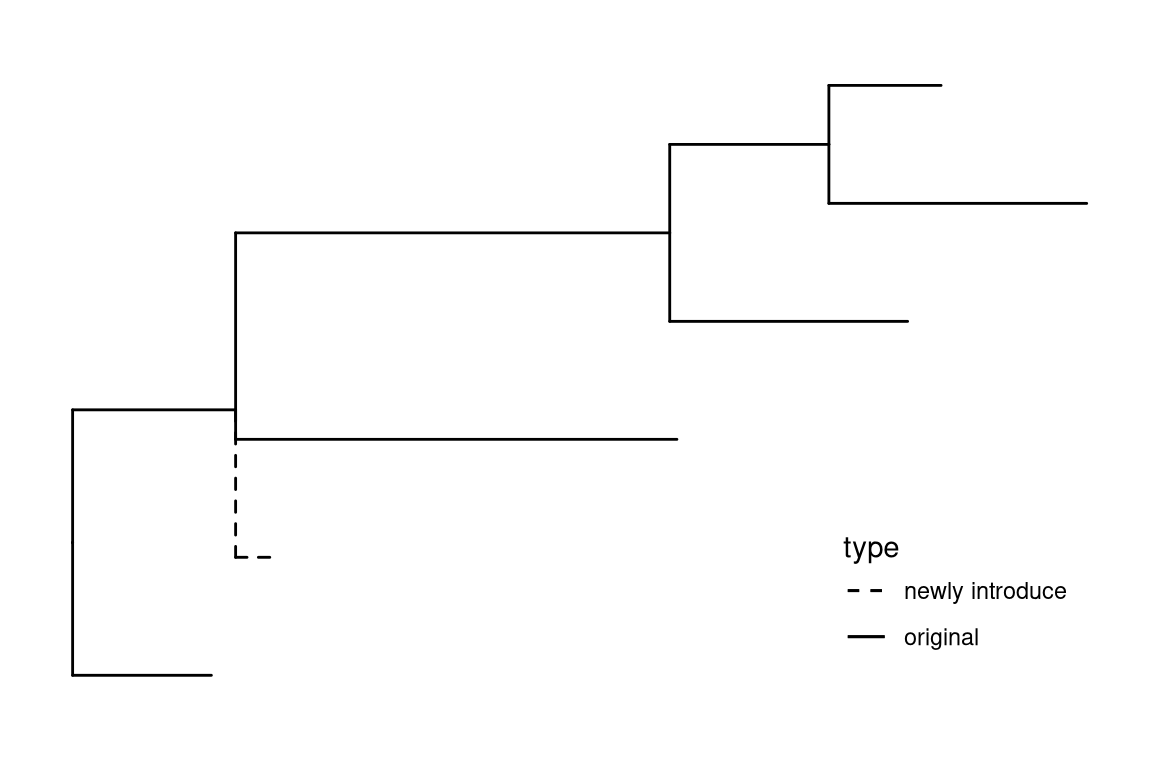
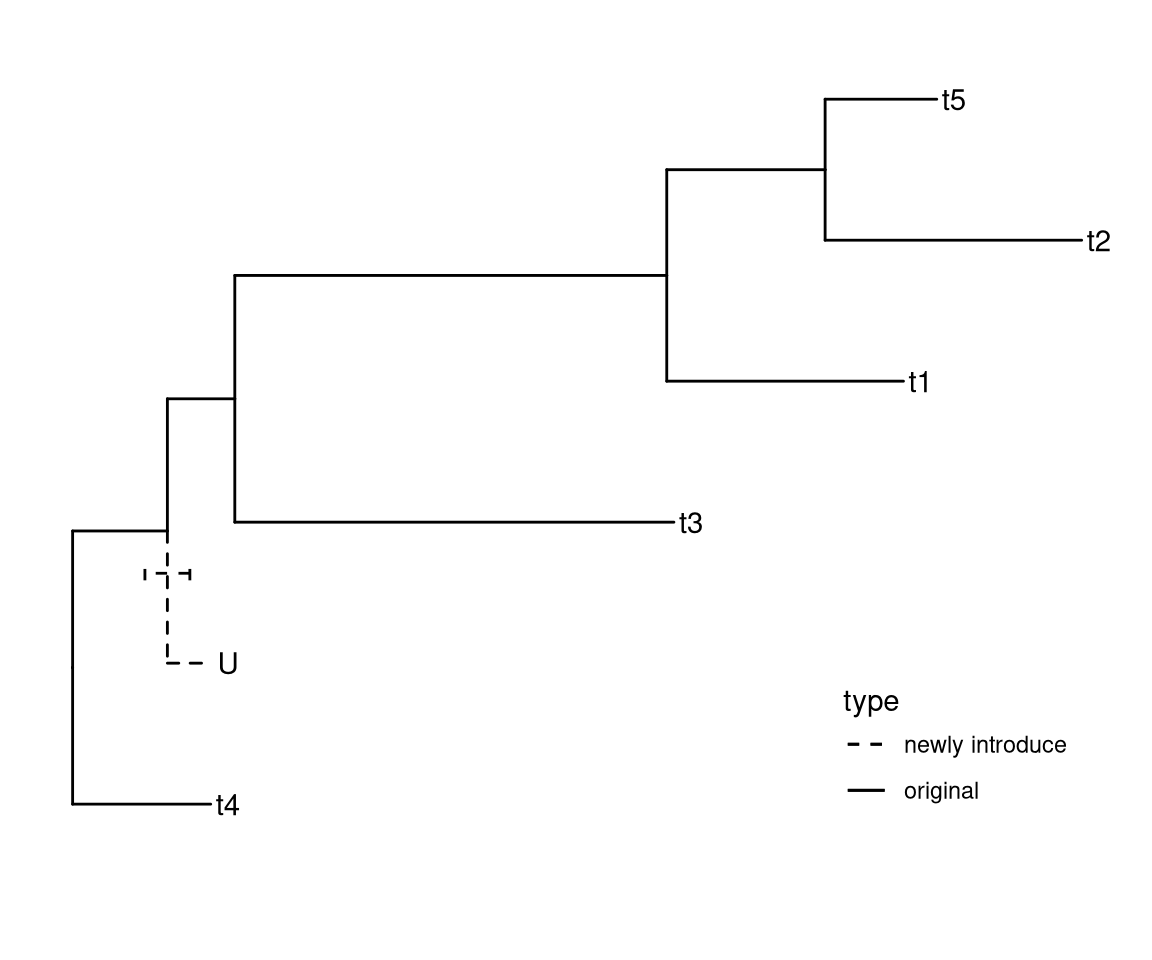
uncertainty of branch split

diff --git a/docs/faq.html b/docs/faq.html
@@ -643,24 +643,31 @@ Figure A.9: <strong>Changing branch length of outgroup.</strong> Original tree (
 <div id="bind-tip" class="section level2">
 <h2><span class="header-section-number">A.10</span> Attach a new tip to a tree</h2>
 <p>Sometimes there are known branches that are not in the tree, and we would like to have them on the tree. Another scenario is that we have a newly sequence species and would like to update reference tree with this species by inferring its evolutionary position.</p>
-<p>Users can use <code>phytools::bind.tip()</code> <span class="citation">(Revell <a href="#ref-revell_phytools_2012" role="doc-biblioref">2012</a>)</span> to attach a new tip to a tree. With <a href="https://CRAN.R-project.org/package=tidytree">tidytree</a>, it is easy to add annotation to differentiate newly introduce and original branches as demonstrated in Figure <a href="faq.html#fig:bindTip">A.10</a>.</p>
+<p>Users can use <code>phytools::bind.tip()</code> <span class="citation">(Revell <a href="#ref-revell_phytools_2012" role="doc-biblioref">2012</a>)</span> to attach a new tip to a tree. With <a href="https://CRAN.R-project.org/package=tidytree">tidytree</a>, it is easy to add annotation to differentiate newly introduce and original branches and to reflect uncertainty of the added branch splits off as demonstrated in Figure <a href="faq.html#fig:bindTip">A.10</a>.</p>
 
 
 <div class="sourceCode" id="cb269"><pre class="sourceCode r"><code class="sourceCode r"><span id="cb269-1"><a href="faq.html#cb269-1"></a><span class="kw">library</span>(phytools)</span>
 <span id="cb269-2"><a href="faq.html#cb269-2"></a><span class="kw">library</span>(tidytree)</span>
-<span id="cb269-3"><a href="faq.html#cb269-3"></a><span class="kw">library</span>(ggtree)</span>
-<span id="cb269-4"><a href="faq.html#cb269-4"></a></span>
-<span id="cb269-5"><a href="faq.html#cb269-5"></a><span class="kw">set.seed</span>(<span class="dv">2019-11-18</span>)</span>
-<span id="cb269-6"><a href="faq.html#cb269-6"></a>tr &lt;-<span class="st"> </span><span class="kw">rtree</span>(<span class="dv">5</span>)</span>
-<span id="cb269-7"><a href="faq.html#cb269-7"></a>tr2 &lt;-<span class="st"> </span><span class="kw">bind.tip</span>(tr, <span class="st">&#39;U&#39;</span>, <span class="dt">edge.length =</span> <span class="fl">0.1</span>, <span class="dt">where =</span> <span class="dv">7</span>)</span>
-<span id="cb269-8"><a href="faq.html#cb269-8"></a>d &lt;-<span class="st"> </span><span class="kw">as_tibble</span>(tr2)</span>
-<span id="cb269-9"><a href="faq.html#cb269-9"></a>d<span class="op">$</span>type &lt;-<span class="st"> &quot;original&quot;</span></span>
-<span id="cb269-10"><a href="faq.html#cb269-10"></a>d<span class="op">$</span>type[d<span class="op">$</span>label <span class="op">==</span><span class="st"> &#39;U&#39;</span>] &lt;-<span class="st"> &#39;newly introduce&#39;</span></span>
-<span id="cb269-11"><a href="faq.html#cb269-11"></a>tr3 &lt;-<span class="st"> </span><span class="kw">as.treedata</span>(d)</span>
-<span id="cb269-12"><a href="faq.html#cb269-12"></a><span class="kw">ggtree</span>(tr3, <span class="kw">aes</span>(<span class="dt">linetype=</span>type)) <span class="op">+</span><span class="st"> </span></span>
-<span id="cb269-13"><a href="faq.html#cb269-13"></a><span class="st">  </span><span class="kw">scale_linetype_manual</span>(<span class="dt">values =</span> <span class="kw">c</span>(<span class="st">&quot;newly introduce&quot;</span> =<span class="st"> &quot;dashed&quot;</span>, </span>
-<span id="cb269-14"><a href="faq.html#cb269-14"></a>                                    <span class="st">&quot;original&quot;</span> =<span class="st"> &quot;solid&quot;</span>)) <span class="op">+</span><span class="st"> </span></span>
-<span id="cb269-15"><a href="faq.html#cb269-15"></a><span class="st">  </span><span class="kw">theme</span>(<span class="dt">legend.position=</span><span class="kw">c</span>(.<span class="dv">8</span>, <span class="fl">.2</span>))</span></code></pre></div>
+<span id="cb269-3"><a href="faq.html#cb269-3"></a><span class="kw">library</span>(ggplot2)</span>
+<span id="cb269-4"><a href="faq.html#cb269-4"></a><span class="kw">library</span>(ggtree)</span>
+<span id="cb269-5"><a href="faq.html#cb269-5"></a></span>
+<span id="cb269-6"><a href="faq.html#cb269-6"></a><span class="kw">set.seed</span>(<span class="dv">2019-11-18</span>)</span>
+<span id="cb269-7"><a href="faq.html#cb269-7"></a>tr &lt;-<span class="st"> </span><span class="kw">rtree</span>(<span class="dv">5</span>)</span>
+<span id="cb269-8"><a href="faq.html#cb269-8"></a></span>
+<span id="cb269-9"><a href="faq.html#cb269-9"></a>tr2 &lt;-<span class="st"> </span><span class="kw">bind.tip</span>(tr, <span class="st">&#39;U&#39;</span>, <span class="dt">edge.length =</span> <span class="fl">0.1</span>, <span class="dt">where =</span> <span class="dv">7</span>, <span class="dt">position=</span><span class="fl">0.15</span>)</span>
+<span id="cb269-10"><a href="faq.html#cb269-10"></a>d &lt;-<span class="st"> </span><span class="kw">as_tibble</span>(tr2)</span>
+<span id="cb269-11"><a href="faq.html#cb269-11"></a>d<span class="op">$</span>type &lt;-<span class="st"> &quot;original&quot;</span></span>
+<span id="cb269-12"><a href="faq.html#cb269-12"></a>d<span class="op">$</span>type[d<span class="op">$</span>label <span class="op">==</span><span class="st"> &#39;U&#39;</span>] &lt;-<span class="st"> &#39;newly introduce&#39;</span></span>
+<span id="cb269-13"><a href="faq.html#cb269-13"></a>d<span class="op">$</span>sd &lt;-<span class="st"> </span><span class="ot">NA</span></span>
+<span id="cb269-14"><a href="faq.html#cb269-14"></a>d<span class="op">$</span>sd[<span class="kw">parent</span>(d, <span class="st">&#39;U&#39;</span>)<span class="op">$</span>node] &lt;-<span class="st"> </span><span class="fl">0.05</span></span>
+<span id="cb269-15"><a href="faq.html#cb269-15"></a></span>
+<span id="cb269-16"><a href="faq.html#cb269-16"></a>tr3 &lt;-<span class="st"> </span><span class="kw">as.treedata</span>(d)</span>
+<span id="cb269-17"><a href="faq.html#cb269-17"></a><span class="kw">ggtree</span>(tr3, <span class="kw">aes</span>(<span class="dt">linetype=</span>type)) <span class="op">+</span><span class="st">  </span><span class="kw">geom_tiplab</span>() <span class="op">+</span></span>
+<span id="cb269-18"><a href="faq.html#cb269-18"></a><span class="st">  </span><span class="kw">geom_errorbarh</span>(<span class="kw">aes</span>(<span class="dt">xmin=</span>x<span class="op">-</span>sd, <span class="dt">xmax=</span>x<span class="op">+</span>sd, <span class="dt">y =</span> y <span class="op">-</span><span class="st"> </span><span class="fl">0.3</span>), </span>
+<span id="cb269-19"><a href="faq.html#cb269-19"></a>                <span class="dt">linetype=</span><span class="st">&#39;dashed&#39;</span>, <span class="dt">height=</span><span class="fl">0.1</span>) <span class="op">+</span></span>
+<span id="cb269-20"><a href="faq.html#cb269-20"></a><span class="st">  </span><span class="kw">scale_linetype_manual</span>(<span class="dt">values =</span> <span class="kw">c</span>(<span class="st">&quot;newly introduce&quot;</span> =<span class="st"> &quot;dashed&quot;</span>, </span>
+<span id="cb269-21"><a href="faq.html#cb269-21"></a>                                   <span class="st">&quot;original&quot;</span> =<span class="st"> &quot;solid&quot;</span>)) <span class="op">+</span><span class="st"> </span></span>
+<span id="cb269-22"><a href="faq.html#cb269-22"></a><span class="st">  </span><span class="kw">theme</span>(<span class="dt">legend.position=</span><span class="kw">c</span>(.<span class="dv">8</span>, <span class="fl">.2</span>)) </span></code></pre></div>
 <div class="figure"><span id="fig:bindTip"></span>
 <img src="treedata_files/figure-html/bindTip-1.png" alt="Attaching a new tip to a tree." width="576" />
 <p class="caption">
